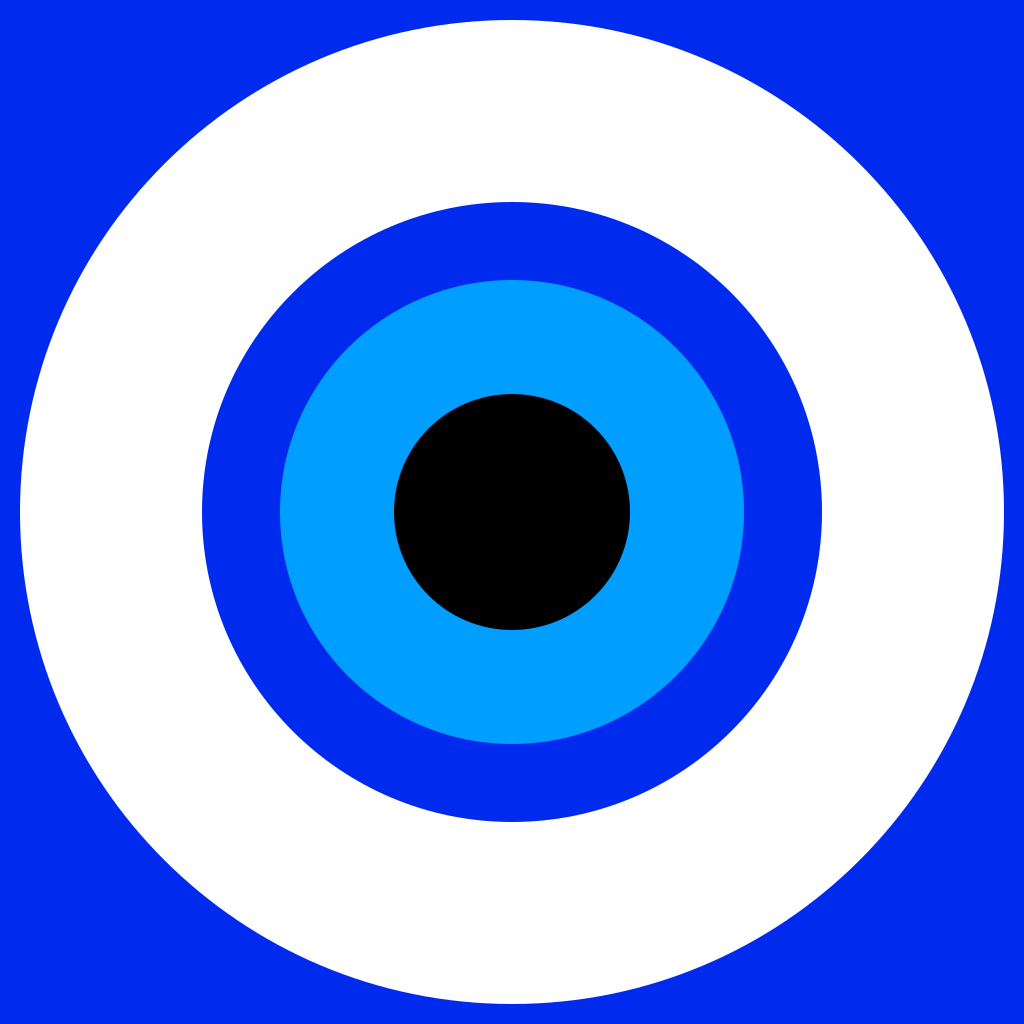
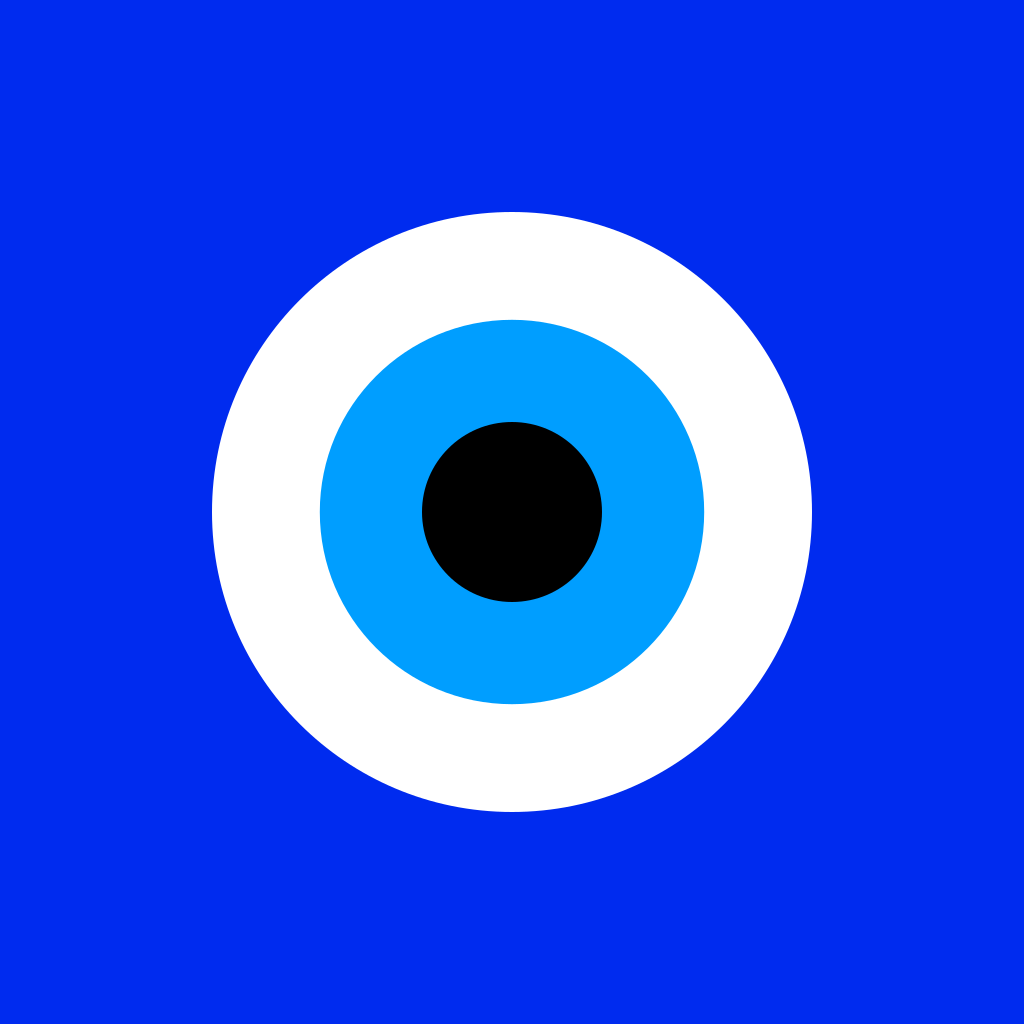
troca a borboleta restante pelo olho da Aqua (opção A)
Usa o pacote aprovado (fundo #002BEF, íris #009EFF) nos ícones, splash,
favicons e na marca do app. O conjunto core de ícones alternativos fica como está.

diff --git a/src/components/icons/AquaLogo.tsx b/src/components/icons/AquaLogo.tsx
@@ -1,38 +1,37 @@
 import React from 'react'
-import Svg, {Path} from 'react-native-svg'
+import Svg, {Circle} from 'react-native-svg'
 
 import {type Props, useCommonSVGProps} from '#/components/icons/common'
 
-const PETALS = [
-  'M 665.828125 387.414062 C 693.78125 367.921875 707.667969 338.664062 704.191406 303.699219 C 698.464844 245.820312 718.199219 227.664062 724.390625 223.472656 C 728.851562 220.457031 730.238281 214.507812 727.546875 209.835938 C 724.871094 205.125 719.003906 203.355469 714.179688 205.675781 C 707.429688 208.914062 681.722656 216.851562 634.476562 182.90625 C 605.808594 162.347656 573.410156 159.773438 542.457031 174.425781 C 615.070312 218.203125 664.128906 297.023438 665.828125 387.414062 Z',
-  'M 157.492188 396.984375 C 129.527344 416.480469 115.648438 445.746094 119.125 480.726562 C 124.855469 538.605469 105.117188 556.753906 98.929688 560.941406 C 94.46875 563.957031 93.082031 569.90625 95.773438 574.578125 C 98.445312 579.269531 104.335938 581.070312 109.136719 578.738281 C 115.929688 575.53125 141.617188 567.59375 188.84375 601.507812 C 217.511719 622.070312 249.917969 624.640625 280.863281 609.988281 C 208.238281 566.214844 159.183594 487.386719 157.492188 396.984375 Z',
-  'M 119.007812 303.902344 C 115.507812 338.921875 129.4375 368.210938 157.476562 387.710938 C 159.070312 297.292969 208.054688 218.425781 280.621094 174.570312 C 249.675781 159.996094 217.351562 162.570312 188.722656 183.117188 C 141.515625 217 115.890625 208.992188 109.160156 205.746094 C 104.292969 203.414062 98.464844 205.183594 95.773438 209.855469 C 93.082031 214.519531 94.425781 220.46875 98.867188 223.511719 C 105.039062 227.722656 124.734375 245.980469 119.007812 303.902344 Z',
-  'M 411.660156 646.597656 C 367.074219 646.597656 325.179688 634.992188 288.707031 614.757812 C 291.613281 648.710938 310.027344 675.339844 342.042969 689.816406 C 394.980469 713.742188 400.886719 739.957031 401.429688 747.421875 C 401.832031 752.800781 406.3125 756.949219 411.699219 756.960938 C 417.085938 756.960938 421.546875 752.808594 421.96875 747.445312 C 422.53125 739.988281 428.480469 713.78125 481.515625 689.816406 C 513.554688 675.332031 531.96875 648.640625 534.84375 614.621094 C 498.3125 634.933594 456.339844 646.597656 411.660156 646.597656 Z',
-  'M 724.449219 560.921875 C 718.28125 556.691406 698.585938 538.414062 704.3125 480.515625 C 707.808594 445.492188 693.886719 416.203125 665.835938 396.710938 C 664.246094 487.125 615.257812 565.992188 542.691406 609.847656 C 573.597656 624.417969 605.96875 621.84375 634.597656 601.296875 C 681.785156 567.394531 707.449219 575.402344 714.140625 578.667969 C 718.945312 581 724.8125 579.261719 727.546875 574.578125 C 730.238281 569.917969 728.890625 563.96875 724.449219 560.921875 Z',
-  'M 411.660156 137.820312 C 456.234375 137.820312 498.117188 149.417969 534.589844 169.640625 C 531.660156 135.6875 513.265625 109.0625 481.277344 94.601562 C 428.300781 70.65625 422.429688 44.46875 421.910156 37.011719 C 421.507812 31.636719 417.046875 27.476562 411.660156 27.457031 L 411.640625 27.457031 C 406.273438 27.457031 401.792969 31.585938 401.390625 36.953125 C 400.808594 44.417969 394.796875 70.644531 341.800781 94.601562 C 309.761719 109.085938 291.347656 135.773438 288.472656 169.796875 C 325.007812 149.484375 366.980469 137.820312 411.660156 137.820312 Z',
-].join(' ')
-
-const DISC = [
-  'M 426.863281 177.066406 C 299.347656 177.066406 195.972656 280.4375 195.972656 407.957031 C 195.972656 535.472656 299.347656 638.847656 426.863281 638.847656 C 554.382812 638.847656 657.753906 535.472656 657.753906 407.957031 C 657.753906 280.4375 554.382812 177.066406 426.863281 177.066406 Z',
-  'M 405 288.335938 C 348.660156 288.335938 302.992188 334.84375 302.992188 392.214844 C 302.992188 449.582031 348.660156 496.089844 405 496.089844 C 461.339844 496.089844 507.007812 449.582031 507.007812 392.214844 C 507.007812 334.84375 461.339844 288.335938 405 288.335938 Z',
-].join(' ')
-
+/**
+ * Aqua eye mark, option A (Clássico), from aqua-olho.svg.
+ * Circles are centered: outer #002BEF, sclera #FFFFFF, iris #009EFF, pupil #000000.
+ * `fill` and `gradient` stay on the props API so existing callers typecheck;
+ * the mark keeps these brand colors.
+ */
 export const AquaLogo = React.forwardRef<Svg, Props>(
   function AquaLogo(props, ref) {
-    const {fill, size, style, gradient, ...rest} = useCommonSVGProps(props)
+    const {
+      fill: _fill,
+      size,
+      style,
+      gradient: _gradient,
+      ...rest
+    } = useCommonSVGProps(props)
 
     return (
       <Svg
         fill="none"
         {...rest}
         ref={ref}
-        viewBox="33.7 14.2 756 756"
+        viewBox="0 0 1100 1100"
         width={size}
         height={size}
         style={[style]}>
-        {gradient}
-        <Path fill={fill} d={PETALS} />
-        <Path fill={fill} fillRule="evenodd" clipRule="evenodd" d={DISC} />
+        <Circle cx={550} cy={550} r={510} fill="#002BEF" />
+        <Circle cx={550} cy={550} r={320} fill="#FFFFFF" />
+        <Circle cx={550} cy={550} r={205} fill="#009EFF" />
+        <Circle cx={550} cy={550} r={96} fill="#000000" />
       </Svg>
     )
   },

diff --git a/src/Splash.tsx b/src/Splash.tsx
@@ -15,7 +15,7 @@ import Animated, {
   withTiming,
 } from 'react-native-reanimated'
 import {useSafeAreaInsets} from 'react-native-safe-area-context'
-import Svg, {Path, type SvgProps} from 'react-native-svg'
+import Svg, {Circle, type SvgProps} from 'react-native-svg'
 import {Image} from 'expo-image'
 import * as SplashScreen from 'expo-splash-screen'
 
@@ -31,18 +31,19 @@ const darkSplashImageUri = RNImage.resolveAssetSource(
 
 export const Logo = React.forwardRef(function LogoImpl(props: SvgProps, ref) {
   const width = 1000
-  const height = width * (67 / 64)
+  const {fill: _fill, style, ...rest} = props
   return (
     <Svg
       fill="none"
       // @ts-ignore it's fiiiiine
       ref={ref}
-      viewBox="0 0 64 66"
-      style={[{width, height}, props.style]}>
-      <Path
-        fill={props.fill || '#fff'}
-        d="M13.873 3.77C21.21 9.243 29.103 20.342 32 26.3v15.732c0-.335-.13.043-.41.858-1.512 4.414-7.418 21.642-20.923 7.87-7.111-7.252-3.819-14.503 9.125-16.692-7.405 1.252-15.73-.817-18.014-8.93C1.12 22.804 0 8.431 0 6.488 0-3.237 8.579-.18 13.873 3.77ZM50.127 3.77C42.79 9.243 34.897 20.342 32 26.3v15.732c0-.335.13.043.41.858 1.512 4.414 7.418 21.642 20.923 7.87 7.111-7.252 3.819-14.503-9.125-16.692 7.405 1.252 15.73-.817 18.014-8.93C62.88 22.804 64 8.431 64 6.488 64-3.237 55.422-.18 50.127 3.77Z"
-      />
+      viewBox="0 0 1100 1100"
+      {...rest}
+      style={[{width, height: width}, style]}>
+      <Circle cx={550} cy={550} r={510} fill="#002BEF" />
+      <Circle cx={550} cy={550} r={320} fill="#FFFFFF" />
+      <Circle cx={550} cy={550} r={205} fill="#009EFF" />
+      <Circle cx={550} cy={550} r={96} fill="#000000" />
     </Svg>
   )
 })
@@ -183,8 +184,6 @@ export function Splash(props: React.PropsWithChildren<Props>) {
 
   const logoAnimations =
     reduceMotion === true ? reducedLogoAnimation : logoAnimation
-  // special off-spec color for dark mode
-  const logoBg = isDarkMode ? '#0F1824' : '#fff'
 
   return (
     <View style={{flex: 1}} onLayout={onLayout}>
@@ -234,7 +233,7 @@ export function Splash(props: React.PropsWithChildren<Props>) {
                 },
               ]}>
               <Animated.View style={[logoAnimations]}>
-                <Logo fill={logoBg} />
+                <Logo />
               </Animated.View>
             </Animated.View>
           )}

diff --git a/app.config.js b/app.config.js
@@ -179,7 +179,7 @@ module.exports = function (_config) {
         adaptiveIcon: {
           foregroundImage: './assets/icon-android-foreground.png',
           monochromeImage: './assets/icon-android-monochrome.png',
-          backgroundColor: '#006AFF',
+          backgroundColor: '#002BEF',
         },
         googleServicesFile: './google-services.json',
         package: 'xyz.blueskyweb.app',
@@ -253,7 +253,7 @@ module.exports = function (_config) {
           'expo-notifications',
           {
             icon: './assets/icon-android-notification.png',
-            color: '#1185fe',
+            color: '#002BEF',
             sounds: PLATFORM === 'ios' ? ['assets/dm.aiff'] : ['assets/dm.mp3'],
           },
         ],
@@ -311,22 +311,22 @@ module.exports = function (_config) {
           {
             ios: {
               enableFullScreenImage_legacy: true,
-              backgroundColor: '#ffffff',
+              backgroundColor: '#002BEF',
               image: './assets/splash.png',
               resizeMode: 'cover',
               dark: {
                 enableFullScreenImage_legacy: true,
-                backgroundColor: '#001429',
+                backgroundColor: '#002BEF',
                 image: './assets/splash-dark.png',
                 resizeMode: 'cover',
               },
             },
             android: {
-              backgroundColor: '#0c7cff',
+              backgroundColor: '#002BEF',
               image: './assets/splash-android-icon.png',
               imageWidth: 150,
               dark: {
-                backgroundColor: '#0c2a49',
+                backgroundColor: '#002BEF',
                 image: './assets/splash-android-icon-dark.png',
                 imageWidth: 150,
               },

diff --git a/bskyogcard/src/components/Butterfly.tsx b/bskyogcard/src/components/Butterfly.tsx
@@ -1,16 +1,20 @@
 import React from 'react'
 
+/**
+ * Aqua eye (option A). The export name stays `Butterfly` so existing
+ * OG-card imports keep working.
+ */
 export function Butterfly(props: React.SVGAttributes<SVGSVGElement>) {
   return (
     <svg
       xmlns="http://www.w3.org/2000/svg"
       fill="none"
-      viewBox="0 0 568 501"
+      viewBox="0 0 1100 1100"
       {...props}>
-      <path
-        fill="currentColor"
-        d="M123.121 33.664C188.241 82.553 258.281 181.68 284 234.873c25.719-53.192 95.759-152.32 160.879-201.21C491.866-1.611 568-28.906 568 57.947c0 17.346-9.945 145.713-15.778 166.555-20.275 72.453-94.155 90.933-159.875 79.748C507.222 323.8 536.444 388.56 473.333 453.32c-119.86 122.992-172.272-30.859-185.702-70.281-2.462-7.227-3.614-10.608-3.631-7.733-.017-2.875-1.169.506-3.631 7.733-13.43 39.422-65.842 193.273-185.702 70.281-63.111-64.76-33.89-129.52 80.986-149.071-65.72 11.185-139.6-7.295-159.875-79.748C9.945 203.659 0 75.291 0 57.946 0-28.906 76.135-1.612 123.121 33.664Z"
-      />
+      <circle cx={550} cy={550} r={510} fill="#002BEF" />
+      <circle cx={550} cy={550} r={320} fill="#FFFFFF" />
+      <circle cx={550} cy={550} r={205} fill="#009EFF" />
+      <circle cx={550} cy={550} r={96} fill="#000000" />
     </svg>
   )
 }

diff --git a/src/Splash.web.tsx b/src/Splash.web.tsx
@@ -16,12 +16,12 @@ export function Splash() {
     <View style={[a.fixed, a.inset_0, a.align_center, a.justify_center]}>
       <Svg
         fill="none"
-        viewBox="0 0 810 810"
+        viewBox="0 0 1100 1100"
         style={[a.relative, {width: size, height: size, top: -50}]}>
-        <Circle cx={413.18} cy={413.18} r={381.55} fill="#002bef" />
-        <Circle cx={413.18} cy={413.18} r={218.66} fill="#ffffff" />
-        <Circle cx={413.18} cy={413.18} r={155.56} fill="#009eff" />
-        <Circle cx={413.18} cy={413.18} r={79.69} fill="#000000" />
+        <Circle cx={550} cy={550} r={510} fill="#002BEF" />
+        <Circle cx={550} cy={550} r={320} fill="#FFFFFF" />
+        <Circle cx={550} cy={550} r={205} fill="#009EFF" />
+        <Circle cx={550} cy={550} r={96} fill="#000000" />
       </Svg>
     </View>
   )

diff --git a/bskyweb/templates/base.html b/bskyweb/templates/base.html
@@ -98,7 +98,7 @@
   <link rel="apple-touch-icon" sizes="180x180" href="{{ staticCDNHost }}/static/apple-touch-icon.png">
   <link rel="icon" type="image/png" sizes="32x32" href="{{ staticCDNHost }}/static/favicon-32x32.png">
   <link rel="icon" type="image/png" sizes="16x16" href="{{ staticCDNHost }}/static/favicon-16x16.png">
-  <link rel="mask-icon" href="{{ staticCDNHost }}/static/safari-pinned-tab.svg" color="#1185fe">
+  <link rel="mask-icon" href="{{ staticCDNHost }}/static/safari-pinned-tab.svg" color="#002BEF">
   <meta name="theme-color">
   <meta name="application-name" content="Aqua">
   <meta name="generator" content="bskyweb">

diff --git a/bskyembed/index.html b/bskyembed/index.html
@@ -8,7 +8,7 @@
   <link rel="apple-touch-icon" sizes="180x180" href="/static/apple-touch-icon.png">
   <link rel="icon" type="image/png" sizes="32x32" href="/static/favicon-32x32.png">
   <link rel="icon" type="image/png" sizes="16x16" href="/static/favicon-16x16.png">
-  <link rel="mask-icon" href="/static/safari-pinned-tab.svg" color="#1185fe">
+  <link rel="mask-icon" href="/static/safari-pinned-tab.svg" color="#002BEF">
   <meta name="theme-color">
   <meta name="application-name" content="Bluesky">
   <meta name="generator" content="bskyweb">

diff --git a/bskyembed/post.html b/bskyembed/post.html
@@ -8,7 +8,7 @@
   <link rel="apple-touch-icon" sizes="180x180" href="/static/apple-touch-icon.png">
   <link rel="icon" type="image/png" sizes="32x32" href="/static/favicon-32x32.png">
   <link rel="icon" type="image/png" sizes="16x16" href="/static/favicon-16x16.png">
-  <link rel="mask-icon" href="/static/safari-pinned-tab.svg" color="#1185fe">
+  <link rel="mask-icon" href="/static/safari-pinned-tab.svg" color="#002BEF">
   <meta name="theme-color">
   <meta name="application-name" content="Bluesky">
   <meta name="generator" content="bskyweb">
